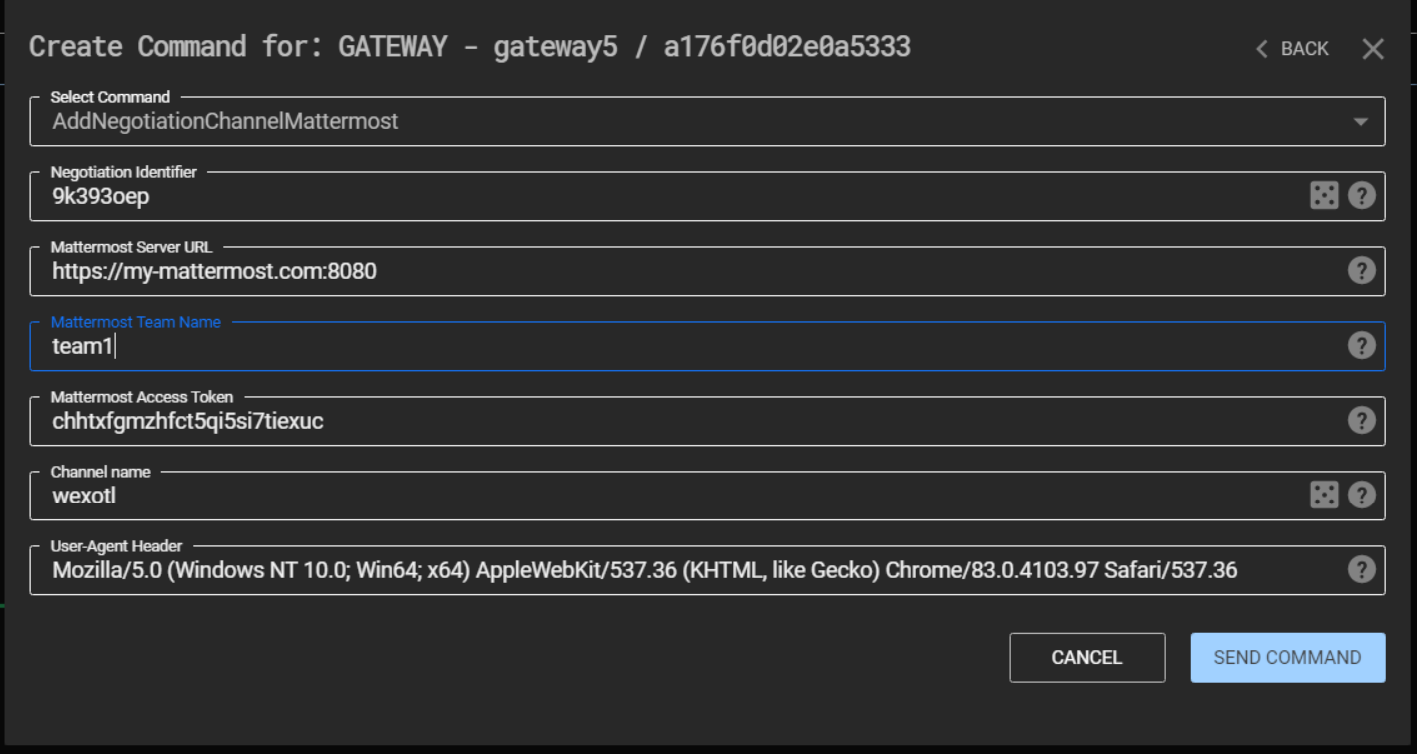
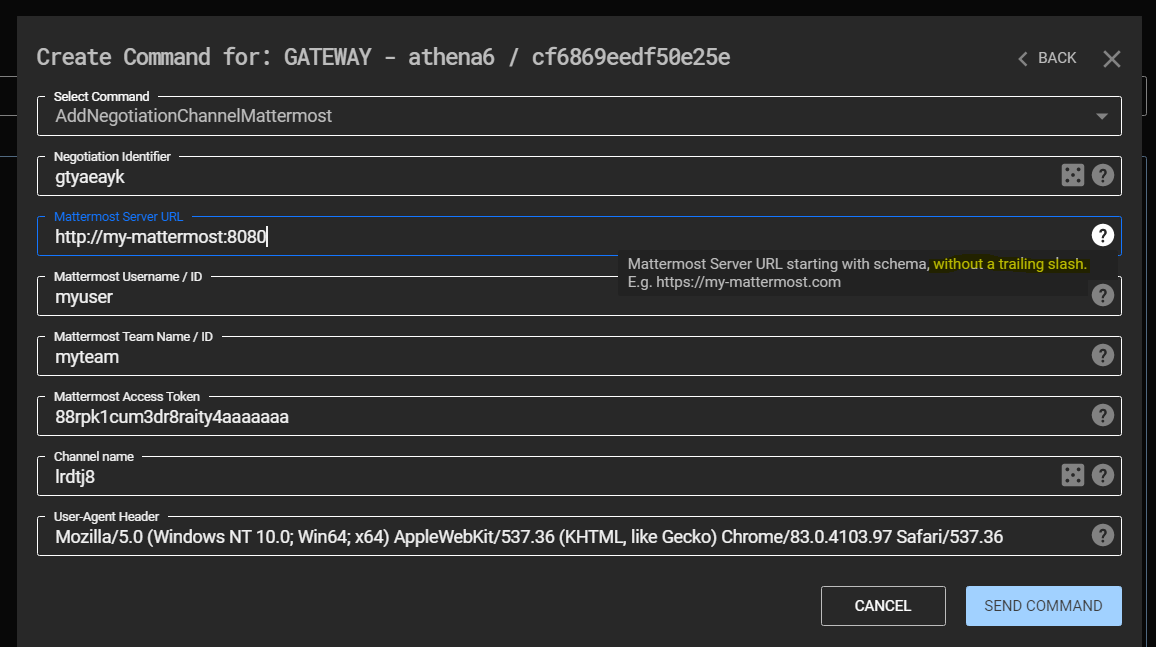
Enhanced Mattermost channel to support non-global Teams and avoid channels duplication.

Changed region(s): [[0.0, 0.0, 0.9965, 1.0]]

diff --git a/Src/Common/FSecure/Mattermost/MattermostApi.cpp b/Src/Common/FSecure/Mattermost/MattermostApi.cpp
@@ -21,7 +21,7 @@ namespace
 	}
 }
 
-FSecure::Mattermost::Mattermost(std::string const& serverUrl, std::string const& teamName, std::string const& accessToken, std::string const& channelName, std::string const& userAgent)
+FSecure::Mattermost::Mattermost(std::string const& serverUrl, std::string const& userName, std::string const& teamName, std::string const& accessToken, std::string const& channelName, std::string const& userAgent)
 {
 	if (auto winProxy = WinTools::GetProxyConfiguration(); !winProxy.empty())
 		this->m_ProxyConfig = (winProxy == OBF(L"auto")) ? WebProxy(WebProxy::Mode::UseAutoDiscovery) : WebProxy(winProxy);
@@ -30,6 +30,7 @@ FSecure::Mattermost::Mattermost(std::string const& serverUrl, std::string const&
 	this->m_AccessToken = accessToken;
 	this->m_UserAgent = userAgent;
 	this->m_OriginalChannelName = channelName;
+	this->m_UserName = userName;
 
 	std::string lowerChannelName = channelName;
 	std::transform(lowerChannelName.begin(), lowerChannelName.end(), lowerChannelName.begin(), [](unsigned char c) { return std::tolower(c); });
@@ -38,9 +39,10 @@ FSecure::Mattermost::Mattermost(std::string const& serverUrl, std::string const&
 	SetChannel(CreateChannel(lowerChannelName));
 }
 
-void FSecure::Mattermost::SetTeamID(std::string const& teamID)
+void FSecure::Mattermost::SetTeamID(std::pair<std::string, std::string> const& teamID)
 {
-    this->m_TeamID = teamID;
+    this->m_TeamID = teamID.first;
+	this->m_TeamName = teamID.second;
 }
 
 void FSecure::Mattermost::SetUserAgent(std::string const& userAgent)
@@ -66,6 +68,29 @@ std::string FSecure::Mattermost::WritePost(std::string const& message, std::stri
 std::string FSecure::Mattermost::WriteReply(std::string const& message, std::string const& postID, std::string const& fileID /* = "" */)
 {
     return WritePostOrReply(message, postID, fileID);
+}
+
+std::string FSecure::Mattermost::GetUserId(std::string const& userName)
+{
+	if (userName.empty())
+		return "";
+
+	std::string url = m_ServerUrl + OBF("/api/v4/users/") + userName;
+	auto response = GetJsonResponse(url);
+
+	if (response.value(OBF("status_code"), 0) == 400 || !response.contains(OBF("roles")))
+	{
+		url = m_ServerUrl + OBF("/api/v4/users/username/") + userName;
+		response = GetJsonResponse(url);
+
+		if (response.value(OBF("status_code"), 0) == 400 || !response.contains(OBF("roles")))
+		{
+			throw std::exception(OBF("[x] Could not find user specified by neither ID nor username!\n"));
+			return "";
+		}
+	}
+
+	return response[OBF("id")];
 }
 
 std::string FSecure::Mattermost::WritePostOrReply(std::string const& message, std::string const& postID /*= ""*/, std::string const& fileID /*= ""*/, std::string channelID /*= ""*/)
@@ -97,26 +122,62 @@ std::string FSecure::Mattermost::WritePostOrReply(std::string const& message, st
 	return output[OBF("id")].get<std::string>();
 }
 
-std::string FSecure::Mattermost::FindTeamID(const std::string& teamName)
+std::pair<std::string, std::string> FSecure::Mattermost::FindTeamID(const std::string& teamName)
 {
-    std::map<std::string, std::string> channelMap;
-    std::string url = m_ServerUrl + OBF("/api/v4/teams");
+	unsigned int channelNum = 0;
+	std::map<std::string, std::string> channelMap;
+	json response;
 
-    json response = GetJsonResponse(url);
+	std::string userId = GetUserId(m_UserName);
+	std::string url;
 
-    for (auto& team : response)
-    {
-        std::string teamId = team[OBF("id")];
-        std::string cName = team[OBF("name")];
+	if (!userId.empty())
+	{
+		url = m_ServerUrl + OBF("/api/v4/users/") + userId + OBF("/teams");
+		response = GetJsonResponse(url);
+		
+		for (auto& team : response)
+		{
+			std::string teamId = team[OBF("id")];
+			std::string cName = team[OBF("name")];
 
-        if (cName == teamName)
-        {
-			return teamId;
-        }
-    }
+			if (cName == teamName || teamId == teamName)
+			{
+				return std::make_pair(teamId, cName);
+			}
+		}
+	}
+
+	do
+	{
+		std::string channelNums = std::to_string(channelNum);
+		url = m_ServerUrl + OBF("/api/v4/teams?page=") + channelNums + OBF("&per_page=30&include_total_count=true");
+
+		response = GetJsonResponse(url);
+		channelNum++;
+
+		if (!response.contains(OBF("teams")) || response[OBF("teams")].empty())
+		{
+			break;
+		}
+
+		auto& teams = response[OBF("teams")];
+
+		for (auto& team : teams)
+		{
+			std::string teamId = team[OBF("id")];
+			std::string cName = team[OBF("name")];
+
+			if (cName == teamName || teamId == teamName)
+			{
+				return std::make_pair(teamId, cName);
+			}
+		}
+
+	} while (response.contains(OBF("teams")));
 
 	throw std::exception(OBF("[x] Could not find Team specified by ID.\n"));
-	return "";
+	return std::make_pair("", "");
 }
 
 
@@ -148,20 +209,49 @@ std::map<std::string, std::string> FSecure::Mattermost::ListChannels()
 
 std::string FSecure::Mattermost::CreateChannel(std::string const& channelName)
 {
-    json j;
-    std::string url = m_ServerUrl + OBF("/api/v4/channels");
-	j[OBF("team_id")] = this->m_TeamID;
-	j[OBF("name")] = channelName;
-	j[OBF("display_name")] = channelName;
-	j[OBF("purpose")] = "";
-	j[OBF("header")] = "";
+	std::string url = m_ServerUrl + OBF("/api/v4/teams/name/") + m_TeamName + OBF("/channels/name/") + channelName;
 
-	// O - for public channel, P - for private channel.
-	j[OBF("type")] = OBF("P");
+	json response = GetJsonResponse(url);
 
-	json response = SendJsonRequest(url, j, Method::POST);
+	if (!response.contains(OBF("status_code")) && response.contains(OBF("id")) && response.contains(OBF("name")))
+	{
+		return response[OBF("id")].get<std::string>();
+	}
+	else if (response.contains(OBF("status_code")) && (response[OBF("status_code")] == 403))
+	{
+		throw std::runtime_error(OBF("Throwing exception: unable to access specified channel, got 403 Forbidden\n"));
+	}
+	else if (response.contains(OBF("status_code")) && (response[OBF("status_code")] == 404))
+	{
+		json j;
+		url = m_ServerUrl + OBF("/api/v4/channels");
+		j[OBF("team_id")] = this->m_TeamID;
+		j[OBF("name")] = channelName;
+		j[OBF("display_name")] = channelName;
+		j[OBF("purpose")] = "";
+		j[OBF("header")] = "";
 
-	if (response.contains(OBF("status_code")) && response[OBF("status_code")] == 400)
+		// O - for public channel, P - for private channel.
+		j[OBF("type")] = OBF("P");
+
+		json response = SendJsonRequest(url, j, Method::POST);
+
+		if (response.contains(OBF("id")) && response.contains(OBF("team_id")) && response.contains(OBF("name")))
+		{
+			return response[OBF("id")].get<std::string>();
+		}
+		else
+		{
+			throw std::runtime_error(OBF("Throwing exception: unable to create a channel\n"));
+		}
+	}
+	else
+	{
+		throw std::runtime_error(OBF("Throwing exception: got unexpected result while searching for a channel!\n"));
+	}
+
+	/*
+	if (response.contains(OBF("status_code")) && (response[OBF("status_code")] == 400 || response[OBF("status_code")] == 403))
 	{
 		// channel already exists
 		std::map<std::string, std::string> channels = this->ListChannels();
@@ -179,6 +269,9 @@ std::string FSecure::Mattermost::CreateChannel(std::string const& channelName)
 	{
 		return response[OBF("id")].get<std::string>();
 	}
+	*/
+
+	return "";
 }
 
 
@@ -403,7 +496,7 @@ FSecure::ByteVector FSecure::Mattermost::SendHttpRequest(
         {
             std::this_thread::sleep_for(Utils::GenerateRandomValue(10s, 20s));
 		}
-        else if (resp.GetStatusCode() == StatusCode::BadRequest)
+        else if (resp.GetStatusCode() == StatusCode::BadRequest || resp.GetStatusCode() == StatusCode::NotFound || resp.GetStatusCode() == StatusCode::Forbidden)
         {
 			return resp.GetData();
         }

diff --git a/Src/Common/FSecure/Mattermost/MattermostApi.h b/Src/Common/FSecure/Mattermost/MattermostApi.h
@@ -22,8 +22,7 @@ namespace FSecure
 		/// Constructor for the Mattermost Api class.
 		/// @param serverUrl - the Mattermost server url with schema, without trailing slash, ex. https://my-mattermost.com
 		/// @param accessToken - the Mattermost Personal Access Token value
-		/// @param proxyString - the proxy to use
-		Mattermost(std::string const& serverUrl, std::string const& teamName, std::string const& accessToken, std::string const& channelName, std::string const& userAgent);
+		Mattermost(std::string const& serverUrl, std::string const& userName, std::string const& teamName, std::string const& accessToken, std::string const& channelName, std::string const& userAgent);
 
 		/// Default constructor.
 		Mattermost() = default;
@@ -40,11 +39,11 @@ namespace FSecure
         std::string WriteReply(std::string const& text, std::string const& postID, std::string const& fileID = "");
 
 
-        void SetTeamID(std::string const& teamID);
+        void SetTeamID(std::pair<std::string, std::string> const& teamID);
 
         void SetUserAgent(std::string const& userAgent);
 
-        std::string FindTeamID(std::string const& teamName);
+		std::pair<std::string, std::string> FindTeamID(std::string const& teamName);
 
 		/// Set the channel that this object uses for communications
 		/// @param channel - the channelId (not name), for example CGPMGFGSH.
@@ -100,8 +99,12 @@ namespace FSecure
 		/// The Mattermost server URL
 		std::string m_ServerUrl;
 
-        /// The Team ID that contains/is to contain specified channel. Team is an analogy to Slack's Workspace.
+		/// The Mattermost username associated with given access token.
+		std::string m_UserName;
+
+        /// The Team Name and ID that contains/is to contain a specified channel. Team is an analogy to Slack's Workspace.
         std::string m_TeamID;
+		std::string m_TeamName;
 
 		/// The channel through which messages are sent and received, will be sent when the object is created.
 		std::string m_ChannelID;
@@ -120,6 +123,9 @@ namespace FSecure
         /// Send http request, uses preset token for authentication
         ByteVector SendHttpRequest(std::string const& host, FSecure::WinHttp::Method method, std::optional<WinHttp::ContentType> contentType = {}, std::string const& data = "");
 		ByteVector SendHttpRequest(std::string const& host, std::optional<WinHttp::ContentType> contentType = {}, std::string const& data = "");
+
+		/// Returns user_id field of the user.
+		std::string GetUserId(std::string const& userName);
 
 		/// Send http request with json data, uses preset token for authentication
 		json SendJsonRequest(std::string const& url, json const& data, FSecure::WinHttp::Method method = FSecure::WinHttp::Method::GET);

diff --git a/Src/Common/FSecure/C3/Interfaces/Channels/Mattermost.cpp b/Src/Common/FSecure/C3/Interfaces/Channels/Mattermost.cpp
@@ -10,8 +10,8 @@ FSecure::C3::Interfaces::Channels::Mattermost::Mattermost(ByteView arguments)
 	: m_inboundDirectionName{ arguments.Read<std::string>() }
 	, m_outboundDirectionName{ arguments.Read<std::string>() }
 {
-	auto [MattermostServerUrl, MattermostTeamName, MattermostAccessToken, channelName, userAgent] = arguments.Read<std::string, std::string, std::string, std::string, std::string>();
-	m_MattermostObj = FSecure::Mattermost{ MattermostServerUrl, MattermostTeamName, MattermostAccessToken, channelName, userAgent };
+	auto [MattermostServerUrl, MattermostUserName, MattermostTeamName, MattermostAccessToken, channelName, userAgent] = arguments.Read<std::string, std::string, std::string, std::string, std::string, std::string>();
+	m_MattermostObj = FSecure::Mattermost{ MattermostServerUrl, MattermostUserName, MattermostTeamName, MattermostAccessToken, channelName, userAgent };
 }
 
 
@@ -121,19 +121,16 @@ void FSecure::C3::Interfaces::Channels::Mattermost::DeleteReplies(std::vector<st
 ////////////////////////////////////////////////////////////////////////////////////////////////////////////////////////////////////////////////////////////////////////////////////////////////////////
 FSecure::ByteVector FSecure::C3::Interfaces::Channels::Mattermost::OnRunCommand(ByteView command)
 {
-    auto commandCopy = command; //each read moves ByteView. CommandCopy is needed  for default.
+    auto commandCopy = command;
     switch (command.Read<uint16_t>())
     {
     case 0:
-        //lock first to avoid race condition
 		m_MattermostObj.PurgeChannel();
         return {};
     case 1:
-        //lock first to avoid race condition
         m_MattermostObj.SetToken(commandCopy.Read<std::string>());
         return {};
     case 2:
-        //lock first to avoid race condition
         m_MattermostObj.SetUserAgent(commandCopy.Read<std::string>());
         return {};
     default:
@@ -172,9 +169,15 @@ const char* FSecure::C3::Interfaces::Channels::Mattermost::GetCapability()
 				"min": 1,
 				"description": "Mattermost Server URL starting with schema, without a trailing slash. E.g. https://my-mattermost.com"
 			},
+            {
+				"type": "string",
+				"name": "Mattermost Username / ID",
+				"min": 1,
+				"description": "Some channels are only visible to the specific user. Submit the username to search for more channels."
+			},
 			{
 				"type": "string",
-				"name": "Mattermost Team Name",
+				"name": "Mattermost Team Name / ID",
 				"min": 1,
 				"description": "Mattermost Team Name to create a channel within. Mattermost's Teams are analogy to Slack's Workspaces."
 			},

diff --git a/Res/Mattermost.md b/Res/Mattermost.md
@@ -45,11 +45,24 @@ Now, to actually create your channel you will need following parameters to get s
 
 1. **Server URL** - the full URL of the server, that starts with a scheme (http/https), contains port number one's needed and **does not** end with a trailing slash. Example: `https://my-mattermost.com:8080`
 
-2. **Team Name** - The team that will have channels created to facilitate communication. First screenshot in this page indicates that team is named `team1`
+2. **Team Name** - The team name (or ID) that will have channels created to facilitate communication. First screenshot in this page indicates that team is named `team1`
 
-3. **Access Token** - The Personal Access Token value, should be something like that: `chhtxfgmzhfct5qi5si7tiexuc`
+3. **Access Token** - The Personal Access Token value, should be something like that: `chhtxfgmzhfct5qi5si7tiexuc` (also acquired from authenticated session cookie named `MMAUTHTOKEN`)
+
+4. **Username** - Username (or `user_id`, also acquired from authenticated session cookie named `MMUSERID`) of the user associated with that access token.
 
 ![](MattermostImages/4.png)
+
+
+### Remarks
+
+Some Mattermost deployments use Single-Sign On functionality to authenticate to Mattermost using providers such as GitLab. Sometimes even Mattermost can have Personal Access Tokens functionality disabled preventing you to generate your own tokens. These cases are not directly supported by this C3 channel, however there is an easy workaround for them. As soon as you successfully authenticate to the Mattermost server, review your HTTP session cookies.
+
+You'll find your temporary _Personal Access Token_ stored in a cookie named `MMAUTHTOKEN`, whereas your user's ID will be stored in `MMUSERID` cookie (however Username should be sufficient to setup this channel correctly).
+
+![](MattermostImages/6.png)
+
+The username is required to setup the channel properly, as sometimes there are Mattermost teams that are visible only to the specific user (the not global ones). If user created his own Team, he might be unable to find it using typical Mattermost APIs, and a different API would need to be called requiring user's ID. That case is handled by this version of the C3 Mattermost channel, provided the username is non-empty.
 
 
 ## Rate Limit
